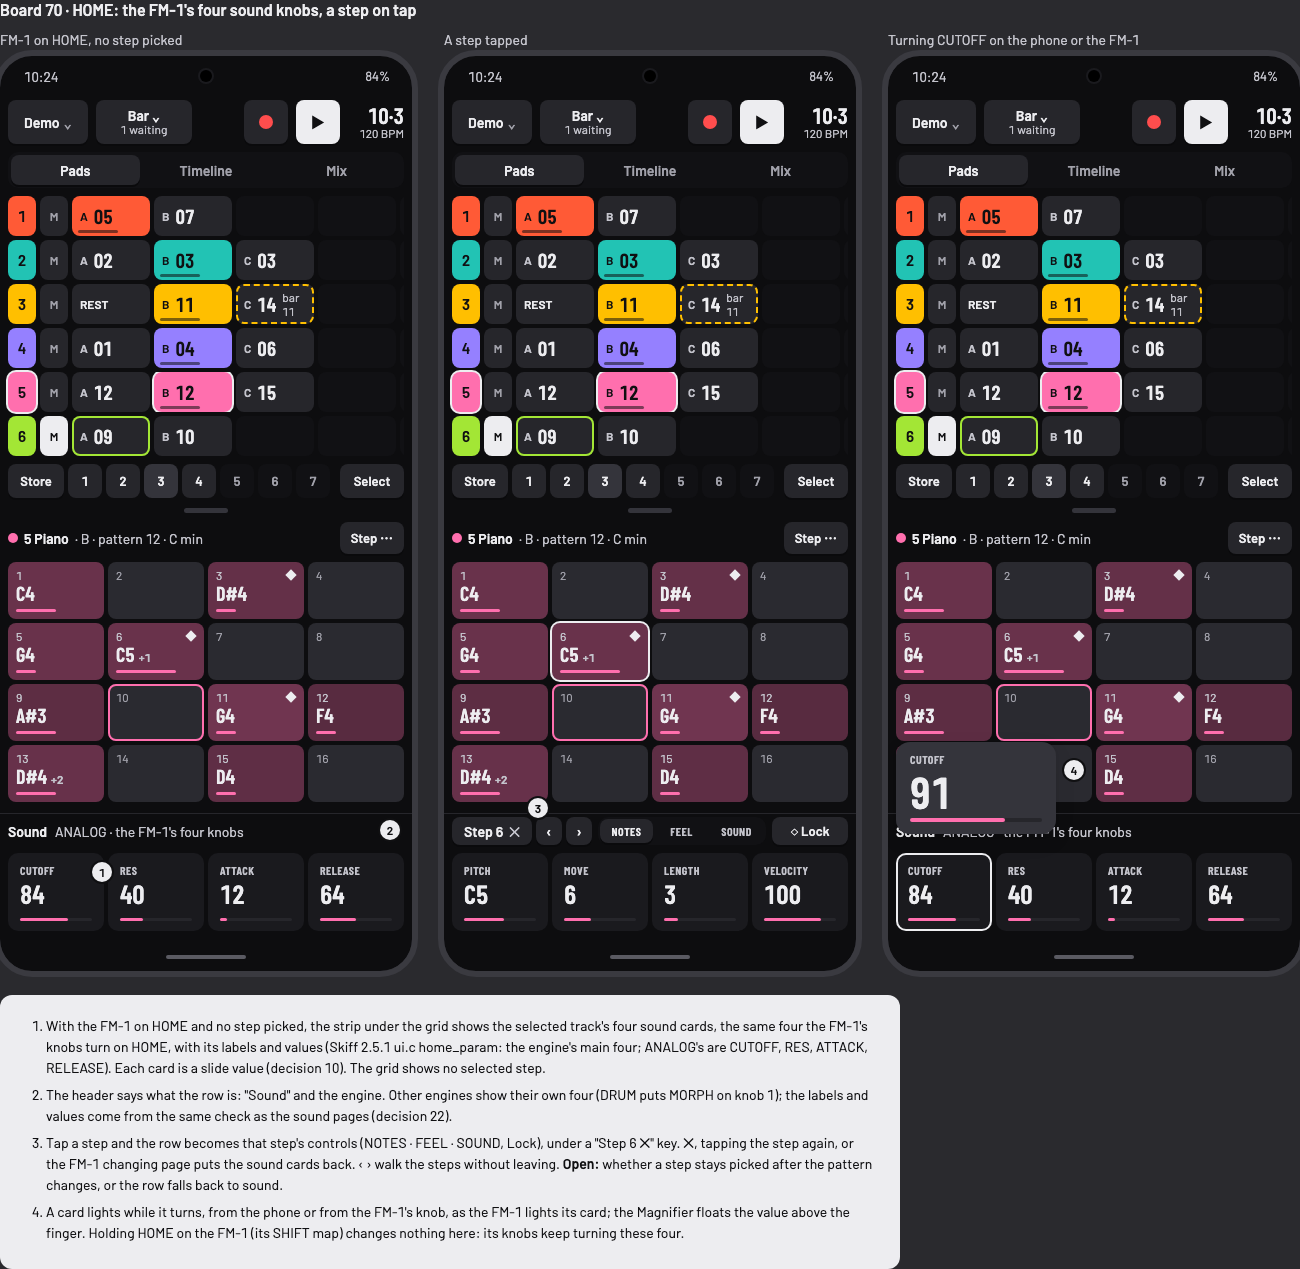
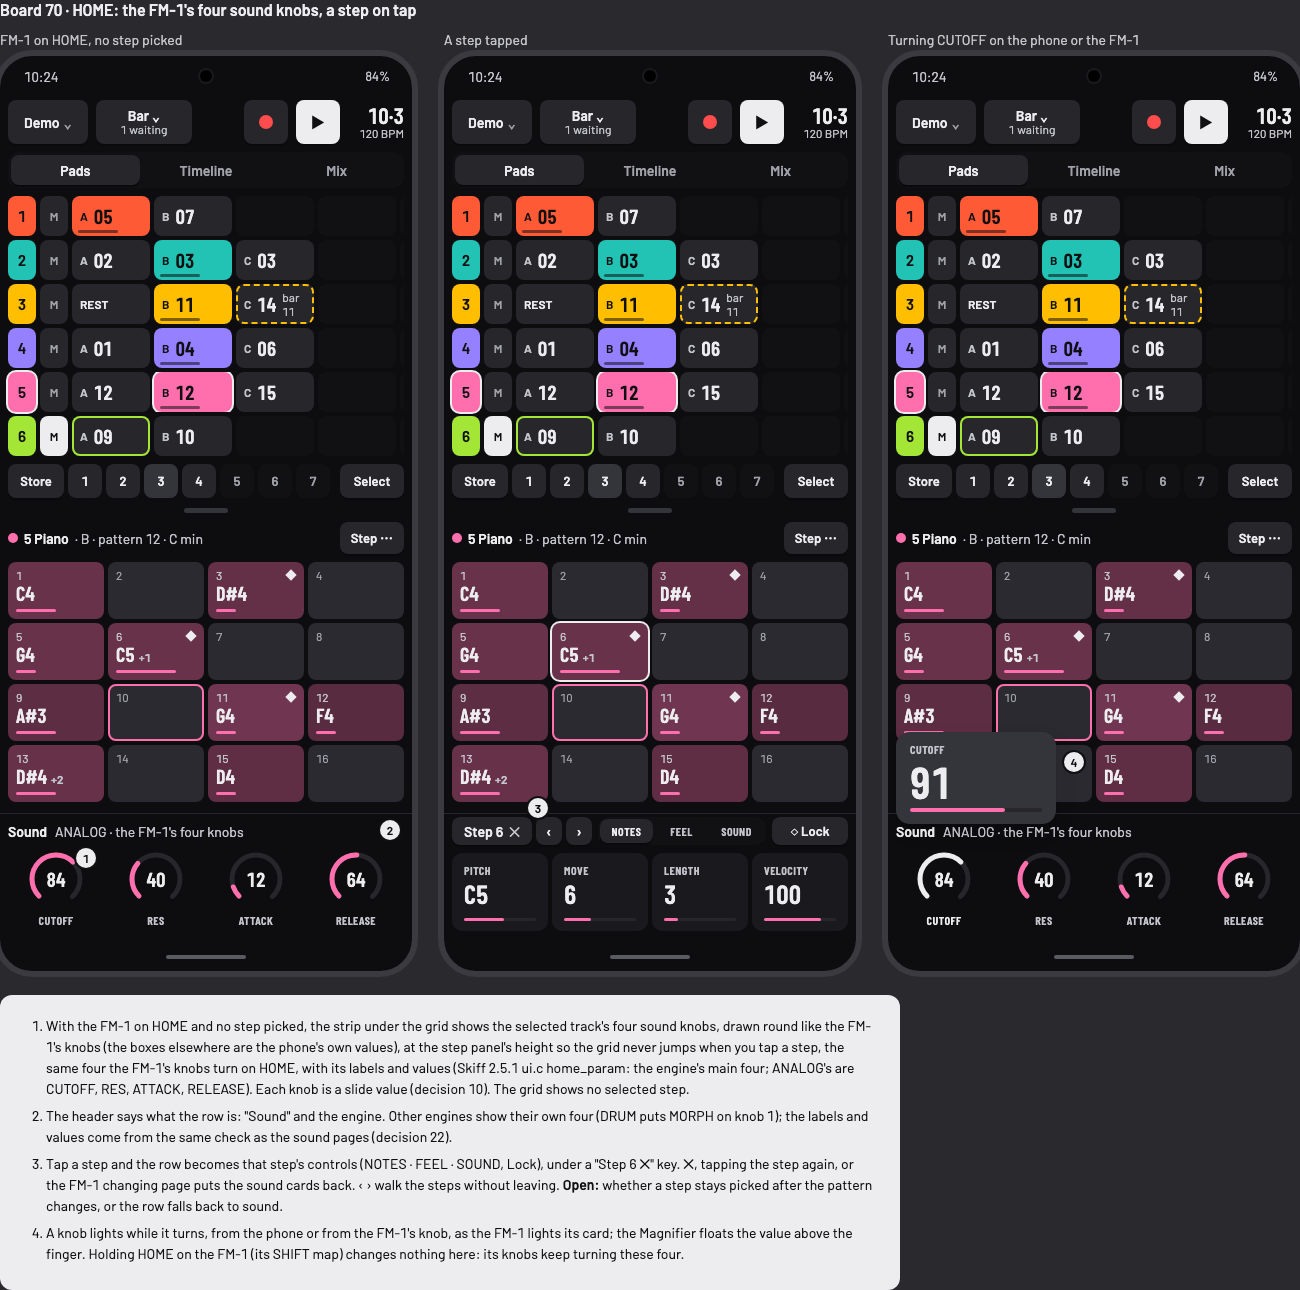
design: board 70 knobs drawn round like the FM-1's, at the step panel's height so the grid never jumps

diff --git a/design/boards/phone-portrait-2.html b/design/boards/phone-portrait-2.html
@@ -608,6 +608,15 @@ function slideCell(x, y, w, h, label, value, frac, o = {}) {
   inner += `<span class="abs" style="left:12px;bottom:10px;height:3px;width:${Math.round((w - 24) * frac)}px;border-radius:2px;background:${col}"></span>`;
   return el('', x, y, w, h, st, inner, `role="slider" aria-label="${label} ${value}"`);
 }
+// a compact round knob for the HOME strip: 56 ring, the value inside it, the label under it
+function miniKnob(x, y, label, value, frac, hot) {
+  const r = 24, c = 2 * Math.PI * r, arc = c * 0.75, ring = hot ? '#EDEDF0' : COL[SEL];
+  let h = svg(x + 20, y, 56, 56, `<circle cx="28" cy="28" r="${r}" fill="none" stroke="#26262B" stroke-width="5" stroke-dasharray="${arc} ${c}" transform="rotate(135 28 28)" stroke-linecap="round"/>
+    <circle cx="28" cy="28" r="${r}" fill="none" stroke="${ring}" stroke-width="5" stroke-dasharray="${arc * frac} ${c}" transform="rotate(135 28 28)" stroke-linecap="round"/>`);
+  h += el('cond', x + 20, y + 16, 56, 24, `text-align:center;font-size:20px;line-height:24px;color:var(--text)`, value, `role="slider" aria-label="${label} ${value}"`);
+  h += el('lab', x, y + 62, 96, 14, `text-align:center;${hot ? 'color:var(--text)' : ''}`, label);
+  return h;
+}
 const HOME4 = [['CUTOFF', '84', 84 / 127], ['RES', '40', 40 / 127], ['ATTACK', '12', 12 / 127], ['RELEASE', '64', 64 / 127]];
 const STEP4 = [['PITCH', 'C5', 0.55], ['MOVE', '6', 6 / 16], ['LENGTH', '3', 3 / 16], ['VELOCITY', '100', 100 / 127]];
 
@@ -628,7 +637,9 @@ function homeStrip(y, o = {}) {
   } else {
     h += el('', 8, y, 300, 28, 'display:flex;align-items:center;gap:8px;font-size:14px;white-space:nowrap',
       `<span style="font-weight:600">Sound</span><span style="color:var(--text2r)">ANALOG · the FM-1's four knobs</span>`);
-    HOME4.forEach((c, i) => { h += slideCell(8 + i * 100, y + 36, 96, 78, c[0], c[1], c[2], { hot: o.turning === i }); });
+    // round, like the FM-1's knobs (Scott, 2026-11-13): these four ARE its knobs on HOME, unlike the boxes around them
+    // the strip keeps the step panel's height, so the grid never jumps between the two: a compact knob, value inside the ring
+    HOME4.forEach((c, i) => { h += miniKnob(8 + i * 100, y + 34, c[0], c[1], c[2], o.turning === i); });
   }
   return h;
 }
@@ -653,14 +664,14 @@ function loupe(x, y, label, value, frac) {
 }
 
 board2(70, 'HOME: the FM-1\'s four sound knobs, a step on tap', [
-  { cap: 'FM-1 on HOME, no step picked', bottom: (y, h) => homeEditor(y, h, {}), label: 'Editor with the track\'s four sound cards', discs: [[1, 92, 806], [2, 380, 764]] },
+  { cap: 'FM-1 on HOME, no step picked', bottom: (y, h) => homeEditor(y, h, {}), label: 'Editor with the track\'s four sound cards', discs: [[1, 76, 792], [2, 380, 764]] },
   { cap: 'A step tapped', bottom: (y, h) => homeEditor(y, h, { step: true }), label: 'Editor with step 6 selected and its controls', discs: [[3, 84, 742]] },
-  { cap: 'Turning CUTOFF on the phone or the FM-1', bottom: (y, h) => homeEditor(y, h, { turning: 0 }), over: () => loupe(8, 686, 'CUTOFF', '91', 91 / 127), label: 'CUTOFF lit, the Magnifier above it', discs: [[4, 176, 704]] },
+  { cap: 'Turning CUTOFF on the phone or the FM-1', bottom: (y, h) => homeEditor(y, h, { turning: 0 }), over: () => loupe(8, 676, 'CUTOFF', '91', 91 / 127), label: 'CUTOFF lit, the Magnifier above it', discs: [[4, 176, 696]] },
 ], [
-  'With the FM-1 on HOME and no step picked, the strip under the grid shows the selected track\'s four sound cards, the same four the FM-1\'s knobs turn on HOME, with its labels and values (Skiff 2.5.1 ui.c home_param: the engine\'s main four; ANALOG\'s are CUTOFF, RES, ATTACK, RELEASE). Each card is a slide value (decision 10). The grid shows no selected step.',
+  'With the FM-1 on HOME and no step picked, the strip under the grid shows the selected track\'s four sound knobs, drawn round like the FM-1\'s knobs (the boxes elsewhere are the phone\'s own values), at the step panel\'s height so the grid never jumps when you tap a step, the same four the FM-1\'s knobs turn on HOME, with its labels and values (Skiff 2.5.1 ui.c home_param: the engine\'s main four; ANALOG\'s are CUTOFF, RES, ATTACK, RELEASE). Each knob is a slide value (decision 10). The grid shows no selected step.',
   'The header says what the row is: "Sound" and the engine. Other engines show their own four (DRUM puts MORPH on knob 1); the labels and values come from the same check as the sound pages (decision 22).',
   'Tap a step and the row becomes that step\'s controls (NOTES · FEEL · SOUND, Lock), under a "Step 6 ✕" key. ✕, tapping the step again, or the FM-1 changing page puts the sound cards back. ‹ › walk the steps without leaving. <span class="q">Open:</span> whether a step stays picked after the pattern changes, or the row falls back to sound.',
-  'A card lights while it turns, from the phone or from the FM-1\'s knob, as the FM-1 lights its card; the Magnifier floats the value above the finger. Holding HOME on the FM-1 (its SHIFT map) changes nothing here: its knobs keep turning these four.',
+  'A knob lights while it turns, from the phone or from the FM-1\'s knob, as the FM-1 lights its card; the Magnifier floats the value above the finger. Holding HOME on the FM-1 (its SHIFT map) changes nothing here: its knobs keep turning these four.',
 ]);
 
 document.getElementById('boards').innerHTML = B2.join('');
